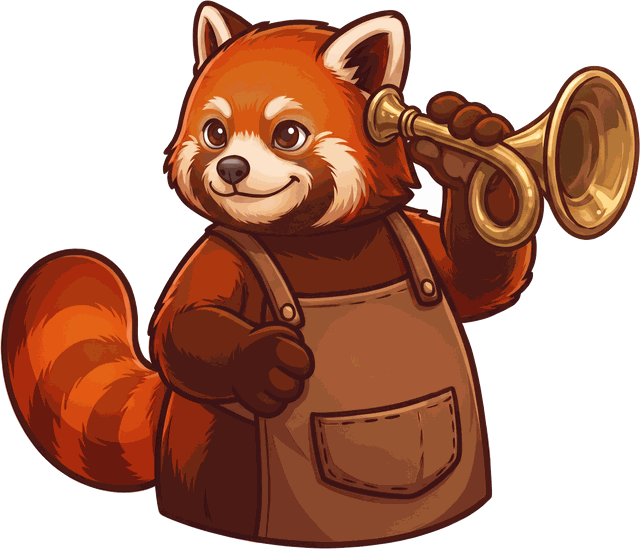
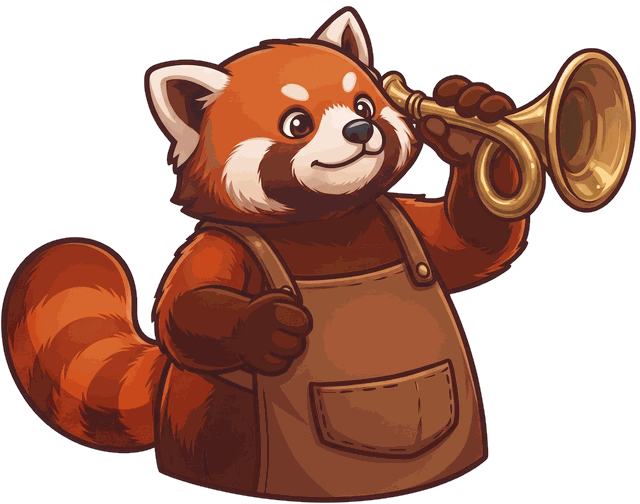
Market Tracker Image Update
Updates the default image used for the Market Tracker module.

diff --git a/modules/market-tracker/market-tracker.js b/modules/market-tracker/market-tracker.js
@@ -899,8 +899,8 @@
   const INTRO = `
     <section class="mtrk__intro-box" aria-label="Nothing tracked yet">
       <div class="mtrk__intro">
-        <img class="mtrk__intro-img" src="modules/market-tracker/market-tracker-panda.png"
-          alt="" width="640" height="549">
+        <img class="mtrk__intro-img" src="modules/market-tracker/market-tracker-panda.png?v=2"
+          alt="" width="640" height="504">
         <div class="mtrk__intro-copy">
           <p class="mtrk__intro-title">Let's listen in!</p>
           <p class="mtrk__intro-text">Choose a job title or competitor and we'll create a tracker that
